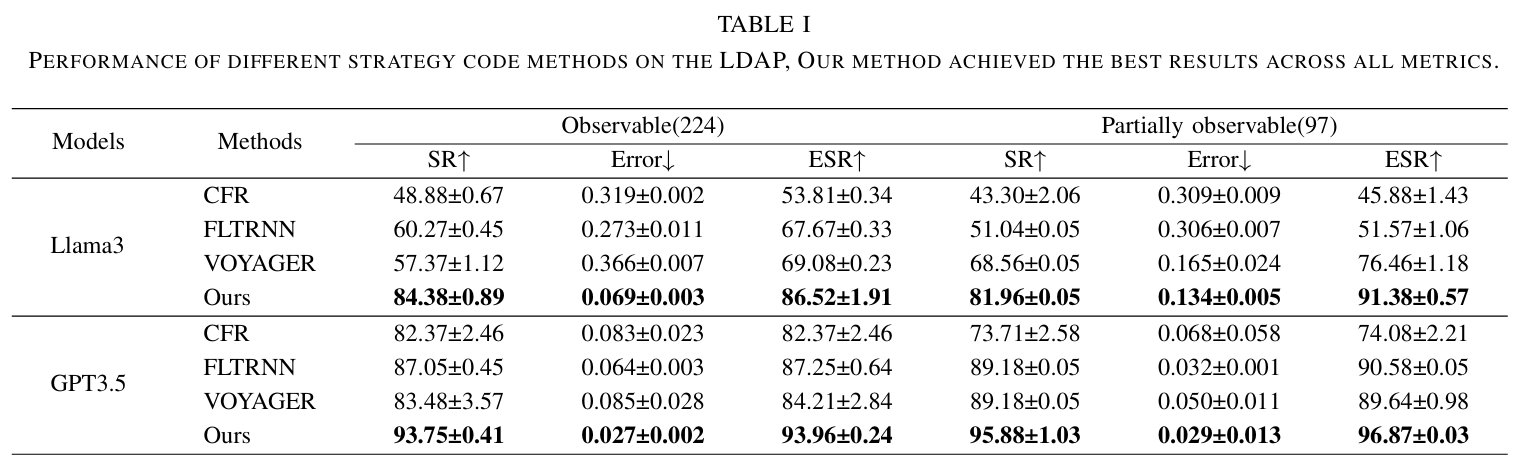
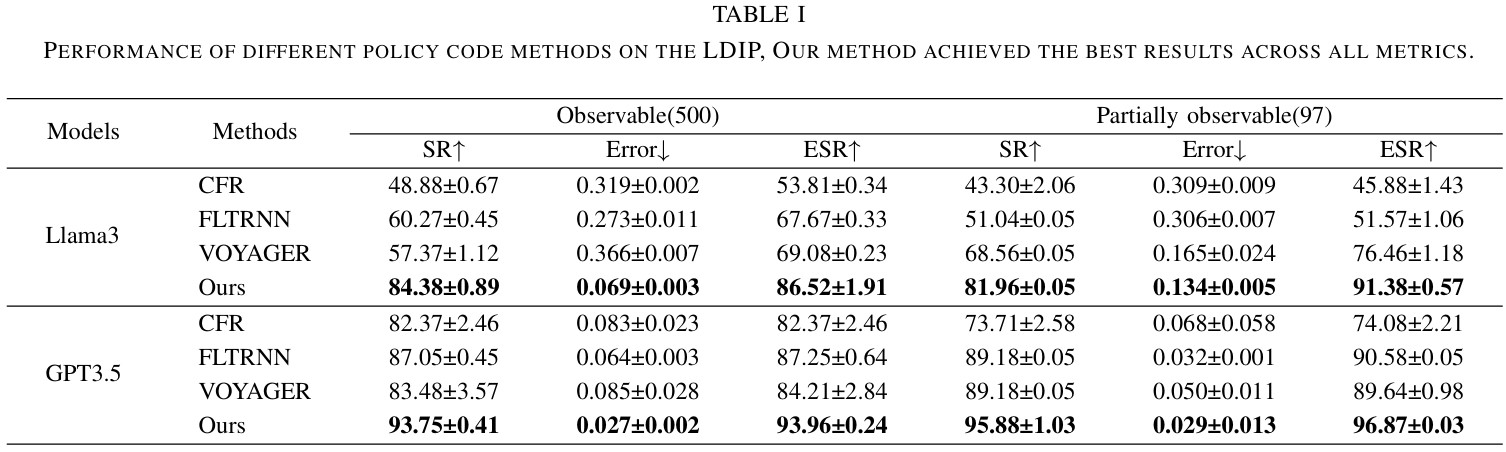
first commit

diff --git a/1.py b/1.py
@@ -1,0 +1,35 @@
+import socket
+
+# 生成要发送的代码
+generated_code = """
+pri.grab('yellow_block')\nblack_pos, black_quat = pri.get_obj_pose('white_mug')\ntarget_pos = black_pos + np.array([0., 0., 0.1])\npri.move(target_pos, black_quat)\npri.gripper_ctrl('open')\npri.stack_object_on_object("red_block","yellow_block")\npri.reset_robot()
+"""
+# ```pri.grab('red_mug')```
+# ```pri.move(np.array([10, 0, 0]), np.array([1, 0, 0]))```
+# 连接到服务端
+HOST = 'localhost'
+PORT = 5001
+with socket.socket(socket.AF_INET, socket.SOCK_STREAM) as s:
+    s.connect((HOST, PORT))
+    # 发送代码
+    s.sendall(generated_code.encode())
+
+# import json
+# import socket
+
+# # 读取 JSON 文件并遍历其中的数据
+# with open('robot.json', 'r') as file:
+#     data = json.load(file)
+#     for item in data:
+#         # 生成要发送的代码
+#         generated_code = item["answer"]
+
+#         # 连接到服务端
+#         HOST = 'localhost'
+#         PORT = 5001
+#         with socket.socket(socket.AF_INET, socket.SOCK_STREAM) as s:
+#             s.connect((HOST, PORT))
+#             # 发送代码
+#             s.sendall(generated_code.encode())
+
+

diff --git a/server.py b/server.py
@@ -133,7 +133,7 @@ def write_goal_positions_to_json2(env, filename):
         print(f"An error occurred while writing goal positions to JSON file: {e}")
 
 
-def main(WRITE="GPT3.5_LDAP1_TEST", IS_DOC=False, IS_ENV2=False):
+def main(WRITE="GPT3.5_LDIP1_TEST", IS_DOC=False, IS_ENV2=False):
     logging.info("Initializing TCP...")
     HOST = ''
     ss = socket.socket(socket.AF_INET, socket.SOCK_STREAM)
@@ -207,7 +207,7 @@ def main(WRITE="GPT3.5_LDAP1_TEST", IS_DOC=False, IS_ENV2=False):
 if __name__ == "__main__":
     import argparse
     parser = argparse.ArgumentParser(description="Server for interacting with robot via various input methods.")
-    parser.add_argument("--write", type=str, default="GPT3.5_LDAP1_TEST", help="Specify the write directory")
+    parser.add_argument("--write", type=str, default="GPT3.5_LDIP1_TEST", help="Specify the write directory")
     parser.add_argument("--doc", action="store_true", help="Run in document mode else in debug mode")
     parser.add_argument("--env2", action="store_true", help="Run in environment2 else in environment1")
     args = parser.parse_args()

diff --git a/output/compare.py b/output/compare.py
@@ -88,7 +88,7 @@ def compare_positions(txt_data, json_data, env, threshold=0.05):
     return accuracy, incorrect_lines, detailed_errors, mean_error
 
 # Choose the appropriate JSON file path based on the environment
-json_file_path = '../dataset/LDAP1.json' if args.env == 'env1' else '../dataset/LDAP2.json'
+json_file_path = '../dataset/LDIP1.json' if args.env == 'env1' else '../dataset/LDIP2.json'
 
 txt_data = load_txt_data(args.file)
 json_data = load_json_data(json_file_path)

diff --git a/dataset/README.md b/dataset/README.md
@@ -1,11 +1,36 @@
 <h1 align="center">
 Long-horizon Desktop Abstract Placement
 </h1>
-This is a dataset for cube place on desktop, known as the Long-horizon Desktop Abstract Placement(LDAP) dataset, which is based on the Robopal simulation environment (`robopal`), and includes both observable and partially abservable scenarios, as shown in figure below. In the observable scenario, there are 224 instructions, more than half of which involve abstract tasks. This scenario includes four differently colored cubes and two differently colored cups. In this setting, the LLM needs to further simplify the instructions to map the objects mentioned in the instructions to those present in the environment. In the partially observable scenario, there are 97 tasks with abstract environmental states, involving three movable cubes of varying masses, one fixed cube, and two differently colored cups. In this setting, LLMs needs to introduce additional sensors (additional advanced APIs) to acquire information, thereby increasing the extra code prediction workload.
+This is a Long-horizon Desktop Implicative Placement(LDIP) dataset, which is based on the Robopal simulation environment (`robopal`), and includes both observable and partially abservable scenarios, as shown in figure below. The observable environment contains 500 tasks, with more than half involving instruction implication, which reasoning on relative positioning, color, and geometry. It includes four differently colored and shaped blocks and two differently colored cups. In this scenario, the LLM needs to simplify the instructions to correctly match objects in the instructions with those in the environment. In the partially observable environment, there are 97 tasks involving environment implication, with three movable blocks of different weights, one fixed block, and two different colored cups. In this case, standard visual detection models cannot differentiate the blocks, requiring the use of a gravity sensor, which adds to the LLM’s code prediction burden.
 
 
-![Introduction of LDAP](https://github.com/Ghbbbbb/Triple-S/blob/main/assets/LDAP.png)
-## 1.Explanation of high-level API:
+![Introduction of LDIP](https://github.com/Ghbbbbb/Triple-S/blob/main/assets/LDIP.png)
+
+### An Example
+![Example of LDIP](https://github.com/Ghbbbbb/Triple-S/blob/main/assets/Example.png)
+
+### 1.Explanation of each JSON file:
+
+- **LDIP1.json**: Includes a total of 500 data points in the observable environment. Each sample is structured as follows:
+```
+{
+    "instruction": str,     # User-inputted instruction
+    "code": str,            # Corresponding policy code
+    "goal_pos": str,        # The ground truth state of object and gripper
+    "task": str             # Type of task, categorized as "Short_step_no_inference", "Short_step_with_inference", "Long_step_no_inference", "Long_step_with_inference"
+}
+```
+
+- **LDIP2.json**: Includes a total of 97 data points in the partially abservable environment. Each sample is structured as follows:
+```
+{
+    "instruction": str,     # User-inputted instruction
+    "code": str,            # Corresponding policy code
+    "goal_pos": str,        # The ground truth state of object and gripper
+}
+```
+
+### 2.Explanation of high-level API:
 
 **pri.gripper_ctrl(command)**: Ctrl the gripper, param 'command' is a string type, consist of 'open' and 'close'.
 
@@ -22,25 +47,3 @@ This is a dataset for cube place on desktop, known as the Long-horizon Desktop A
 **pri.get_obj_mass(self, name: str)**: Get the mass of the object.
 
 **pri.say(content:str)**: Say something if you don't understand the command.
-
-
-### 2.Explanation of each JSON file:
-
-- **LDAP1.json**: Includes a total of 224 data points in the observable environment. Each sample is structured as follows:
-```
-{
-    "instruction": str,     # User-inputted instruction
-    "code": str,            # Corresponding policy code
-    "goal_pos": str,        # The ground truth state of object and gripper
-    "task": str             # Type of task, categorized as "Short_step_no_inference", "Short_step_with_inference", "Long_step_no_inference", "Long_step_with_inference"
-}
-```
-
-- **LDAP2.json**: Includes a total of 78 data points in the partially abservable environment. Each sample is structured as follows:
-```
-{
-    "instruction": str,     # User-inputted instruction
-    "code": str,            # Corresponding policy code
-    "goal_pos": str,        # The ground truth state of object and gripper
-}
-```

diff --git a/README.md b/README.md
@@ -1,7 +1,7 @@
 # Triple-S
 Welcome to Triple-S! 🚀This is code repository for the paper **"Triple-S: A Collaborative Multi-LLM Framework for Solving Long-Horizon Abstract Tasks in Robotics"**.
 
-We propose the Triple-S(Simplify-Solution-Summary) framework, which leverages the In-Context Learning capabilities of multiple LLMs to generate more robust policy code. This is a lightweight, training-free approach. The effectiveness and robustness of the Triple-S framework were validated through tests on the Long-horizon Desktop Abstract Placement[(LDAP)](dataset/README.md) dataset, which includes instruction and environment state abstractions, and across models with varying capabilities.
+We propose the Triple-S(Simplify-Solution-Summary) framework, which leverages the In-Context Learning capabilities of multiple LLMs to generate more robust policy code. This is a lightweight, training-free approach. The effectiveness and robustness of the Triple-S framework were validated through tests on the Long-horizon Desktop Implicative Placement[(LDIP)](dataset/README.md) dataset, which features long horizon tasks with implicative instructions in both observable and partially observable scenarios.
 
 ![The framework of Triple-S](https://github.com/Ghbbbbb/Triple-S/blob/main/assets/Triple-S.png)
 
